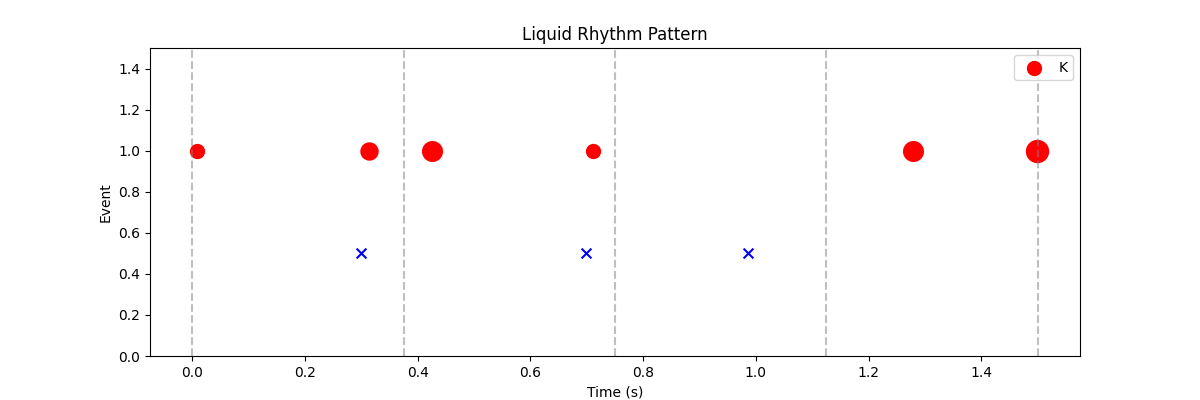
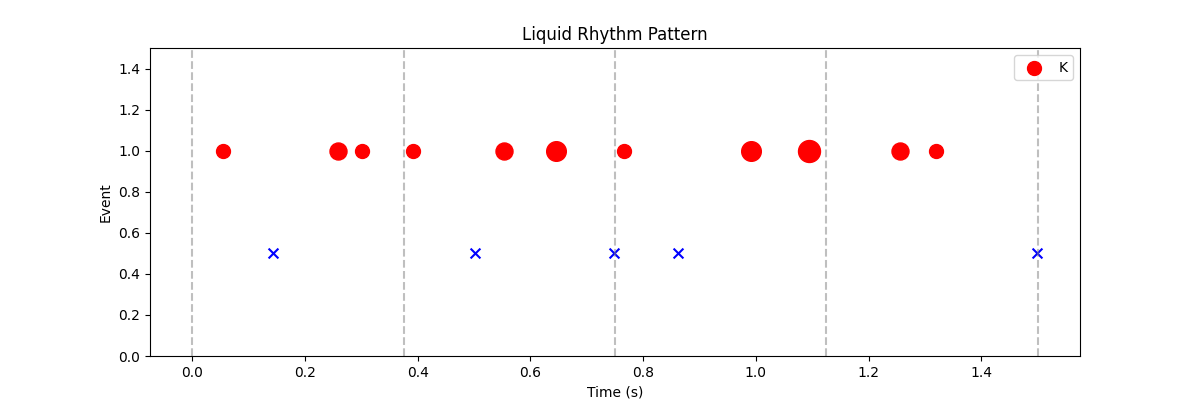
added multi_band_saturation

diff --git a/audio_dsp/effects/multi_band_saturation.py b/audio_dsp/effects/multi_band_saturation.py
@@ -1,0 +1,158 @@
+import numpy as np
+from scipy.io import wavfile
+from scipy.signal import butter, sosfiltfilt, sosfreqz
+import matplotlib.pyplot as plt
+import os
+
+def design_filter_bank(crossovers, fs, order=4):
+    """Design Butterworth band-pass filters for each frequency band."""
+    nyquist = fs / 2
+    bands = []
+    if crossovers:
+        sos = butter(order, crossovers[0] / nyquist, btype='low', output='sos')
+        bands.append(('low', 0, crossovers[0], sos))
+    for i in range(len(crossovers) - 1):
+        low, high = crossovers[i], crossovers[i + 1]
+        sos = butter(order, [low / nyquist, high / nyquist], btype='band', output='sos')
+        bands.append((f'mid{i+1}', low, high, sos))
+    if crossovers:
+        sos = butter(order, crossovers[-1] / nyquist, btype='high', output='sos')
+        bands.append(('high', crossovers[-1], fs / 2, sos))
+    else:
+        sos = butter(order, nyquist / nyquist, btype='low', output='sos')
+        bands.append(('full', 0, fs / 2, sos))
+    return bands
+
+def apply_saturation(signal, drive, fs):
+    """Apply tanh-based saturation/overdrive to a signal."""
+    max_abs = np.max(np.abs(signal))
+    if max_abs == 0 or drive == 0:
+        return signal  # Return original signal if silent or drive=0
+    signal = signal / max_abs
+    drive = np.clip(drive, 0, 10)
+    saturated = np.tanh(drive * signal)
+    max_saturated = np.max(np.abs(saturated))
+    if max_saturated == 0:
+        return signal
+    return saturated / max_saturated * max_abs
+
+def process_multi_band(input_signal, fs, crossovers, drives):
+    """Split signal into bands, apply saturation, and recombine."""
+    expected_bands = len(crossovers) + 1
+    if len(drives) != expected_bands:
+        raise ValueError(f"Expected {expected_bands} drive values for {expected_bands} bands, got {len(drives)}. "
+                         f"Provide one drive per band (e.g., add 'high::{0.0}' for the high band).")
+    
+    filter_bank = design_filter_bank(crossovers, fs)
+    output = np.zeros_like(input_signal)
+    
+    for i, (band_name, low, high, sos) in enumerate(filter_bank):
+        band_signal = sosfiltfilt(sos, input_signal)
+        drive = drives[i]
+        processed = apply_saturation(band_signal, drive, fs)
+        output += processed
+        print(f"Processed band {band_name} ({low}-{high} Hz) with drive {drive}")
+    
+    max_abs = np.max(np.abs(output))
+    if max_abs > 0:
+        output = output / max_abs * 0.9
+    return output
+
+def visualize_filters(filter_bank, fs):
+    """Plot frequency response of the filter bank using sosfreqz."""
+    plt.figure(figsize=(12, 6))
+    for band_name, low, high, sos in filter_bank:
+        w, h = sosfreqz(sos, worN=2000, fs=fs)
+        plt.plot(w, 20 * np.log10(np.abs(h) + 1e-10), label=f'{band_name} ({low}-{high} Hz)')
+    plt.title('Filter Bank Frequency Response')
+    plt.xlabel('Frequency (Hz)')
+    plt.ylabel('Gain (dB)')
+    plt.grid(True)
+    plt.legend()
+    plt.savefig('filter_bank_response.png')
+    plt.close()
+
+def visualize_spectrum(input_signal, output_signal, fs):
+    """Plot input vs. output spectrum."""
+    n = len(input_signal)
+    freq = np.fft.rfftfreq(n, 1 / fs)
+    input_spec = 20 * np.log10(np.abs(np.fft.rfft(input_signal)) + 1e-10)
+    output_spec = 20 * np.log10(np.abs(np.fft.rfft(output_signal)) + 1e-10)
+    
+    plt.figure(figsize=(12, 6))
+    plt.plot(freq, input_spec, label='Input Spectrum')
+    plt.plot(freq, output_spec, label='Output Spectrum')
+    plt.title('Input vs. Output Spectrum')
+    plt.xlabel('Frequency (Hz)')
+    plt.ylabel('Magnitude (dB)')
+    plt.grid(True)
+    plt.legend()
+    plt.savefig('spectrum_comparison.png')
+    plt.close()
+
+def parse_pattern(pattern):
+    """Parse pattern string like 'low:200:2.0,mid:1000:5.0,mid2:5000:3.0,high::0.0'."""
+    bands = pattern.split(',')
+    crossovers = []
+    drives = []
+    for band in bands:
+        try:
+            parts = band.split(':')
+            if len(parts) != 3:
+                print(f"Invalid band format: {band}, skipping")
+                continue
+            name, freq, drive = parts
+            drive = float(drive)
+            if freq:
+                freq = float(freq)
+                crossovers.append(freq)
+            drives.append(drive)
+        except ValueError:
+            print(f"Invalid band format: {band}, skipping")
+    crossovers = sorted(crossovers)
+    if len(drives) != len(crossovers) + 1:
+        print(f"Warning: Got {len(drives)} drives for {len(crossovers) + 1} bands. Padding with drive=0.0")
+        while len(drives) < len(crossovers) + 1:
+            drives.append(0.0)
+    return crossovers, drives
+
+def main():
+    input_file = "sequence.wav"
+    output_file = "saturated_output.wav"
+    pattern = "low:200:2.0,mid:1000:5.0,mid2:5000:3.0,high::0.0"
+    
+    crossovers, drives = parse_pattern(pattern)
+    
+    if not os.path.exists(input_file):
+        print(f"Error: {input_file} not found")
+        return
+    fs, input_signal = wavfile.read(input_file)
+    if len(input_signal.shape) > 1:
+        input_signal = input_signal[:, 0]
+    input_signal = input_signal.astype(float) / 32767.0
+    
+    print("Processing multi-band saturation...")
+    output_signal = process_multi_band(input_signal, fs, crossovers, drives)
+    
+    filter_bank = design_filter_bank(crossovers, fs)
+    visualize_filters(filter_bank, fs)
+    visualize_spectrum(input_signal, output_signal, fs)
+    
+    output_signal = (output_signal * 32767).astype(np.int16)
+    wavfile.write(output_file, fs, output_signal)
+    print(f"Created: {output_file}")
+    print("Visualizations saved as 'filter_bank_response.png' and 'spectrum_comparison.png'")
+
+if __name__ == "__main__":
+    main()
+
+
+
+'''
+The script supports any number of bands. Try:
+
+2 Bands: pattern = "low:200:2.0,high::0.0"
+3 Bands: pattern = "low:150:1.0,mid:800:4.0,high::2.0"
+5 Bands: pattern = "b1:100:1.0,b2:500:3.0,b3:2000:5.0,b4:8000:2.0,b5::0.0"
+
+'''

diff --git a/audio_dsp/sequencer/non_linear/non_linear_seq.py b/audio_dsp/sequencer/non_linear/non_linear_seq.py
@@ -148,7 +148,7 @@ def visualize_pattern(events, liquid_times, loop_length, bpm):
 def main():
     samples_dir = "samples/"
     output_file = "liquid_rhythm.wav"
-    pattern = "K.S-H--.S.H--K---|4"  # Example with H--
+    pattern = "K.S-HK.S-H--.S.H--K---K-S.|4"  # Example with H--
     bpm = 160
     loop_length = 4
     
